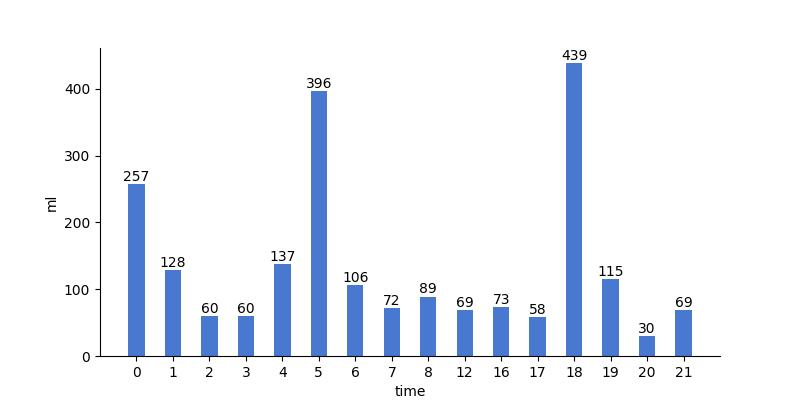
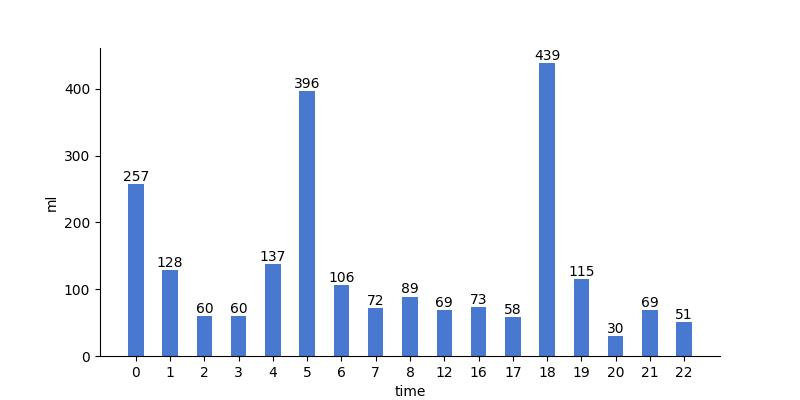
update

Changed region(s): [[0.1562, 0.12, 0.875, 0.96]]

diff --git a/README.md b/README.md
@@ -5,12 +5,12 @@
 
 | 今日总饮水量 | 每小时平均饮水量 |
 | :----: | :----: |
-| 2158 | 134 |
+| 2209 | 129 |
 </div>
 
-| 日期 | 00:19:39 | 00:47:09 | 01:17:36 | 01:47:50 | 02:32:37 | 03:31:56 | 04:05:09 | 04:35:30 | 05:05:29 | 05:47:25 | 06:22:18 | 06:55:38 | 07:27:55 | 08:08:17 | 12:40:50 | 16:00:45 | 16:30:54 | 17:00:45 | 17:30:53 | 18:00:13 | 18:37:48 | 19:07:33 | 19:30:23 | 20:11:01 | 21:12:00 | 21:35:45 |
-| :----: | :----: | :----: | :----: | :----: | :----: | :----: | :----: | :----: | :----: | :----: | :----: | :----: | :----: | :----: | :----: | :----: | :----: | :----: | :----: | :----: | :----: | :----: | :----: | :----: | :----: | :----: |
-| 2022-03-24 | 57 | 200 | 16 | 112 | 60 | 60 | 60 | 77 | 96 | 300 | 76 | 30 | 72 | 89 | 69 | 13 | 60 | 7 | 51 | 400 | 39 | 55 | 60 | 30 | 29 | 40 |
+| 日期 | 00:19:39 | 00:47:09 | 01:17:36 | 01:47:50 | 02:32:37 | 03:31:56 | 04:05:09 | 04:35:30 | 05:05:29 | 05:47:25 | 06:22:18 | 06:55:38 | 07:27:55 | 08:08:17 | 12:40:50 | 16:00:45 | 16:30:54 | 17:00:45 | 17:30:53 | 18:00:13 | 18:37:48 | 19:07:33 | 19:30:23 | 20:11:01 | 21:12:00 | 21:35:45 | 22:24:31 |
+| :----: | :----: | :----: | :----: | :----: | :----: | :----: | :----: | :----: | :----: | :----: | :----: | :----: | :----: | :----: | :----: | :----: | :----: | :----: | :----: | :----: | :----: | :----: | :----: | :----: | :----: | :----: | :----: |
+| 2022-03-24 | 57 | 200 | 16 | 112 | 60 | 60 | 60 | 77 | 96 | 300 | 76 | 30 | 72 | 89 | 69 | 13 | 60 | 7 | 51 | 400 | 39 | 55 | 60 | 30 | 29 | 40 | 51 |
 
 # 近30日饮水数据
 
